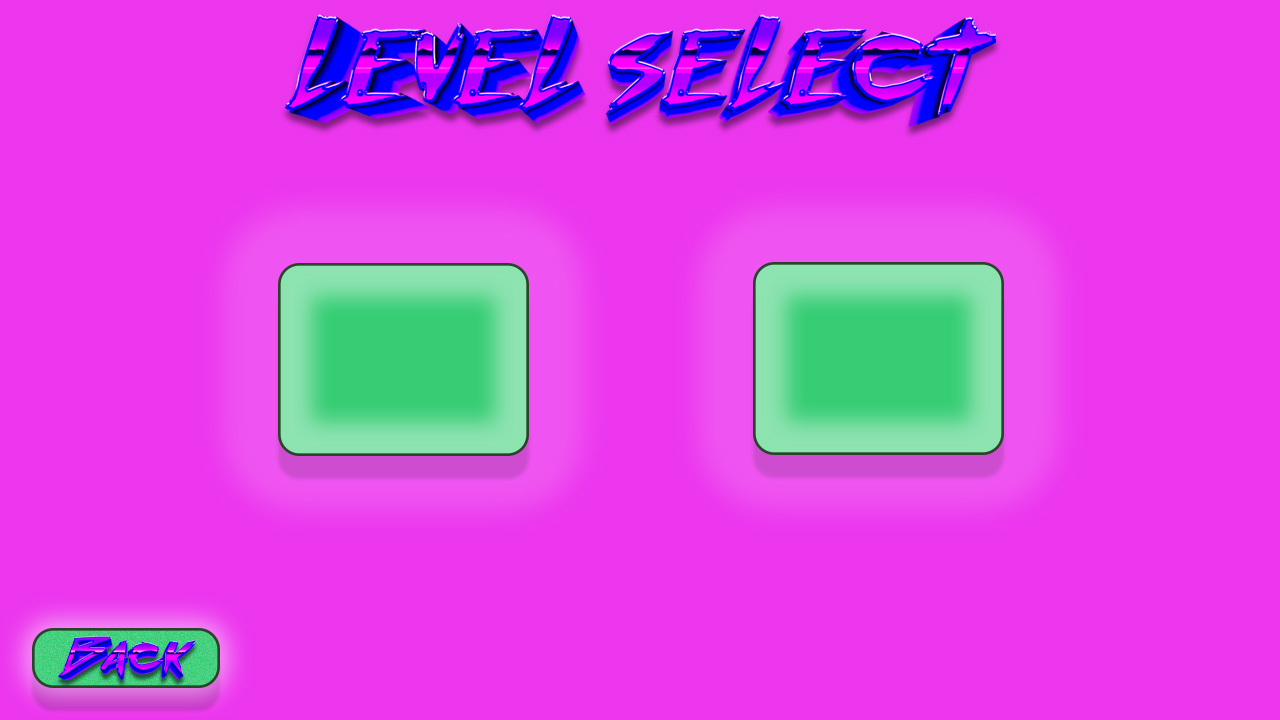
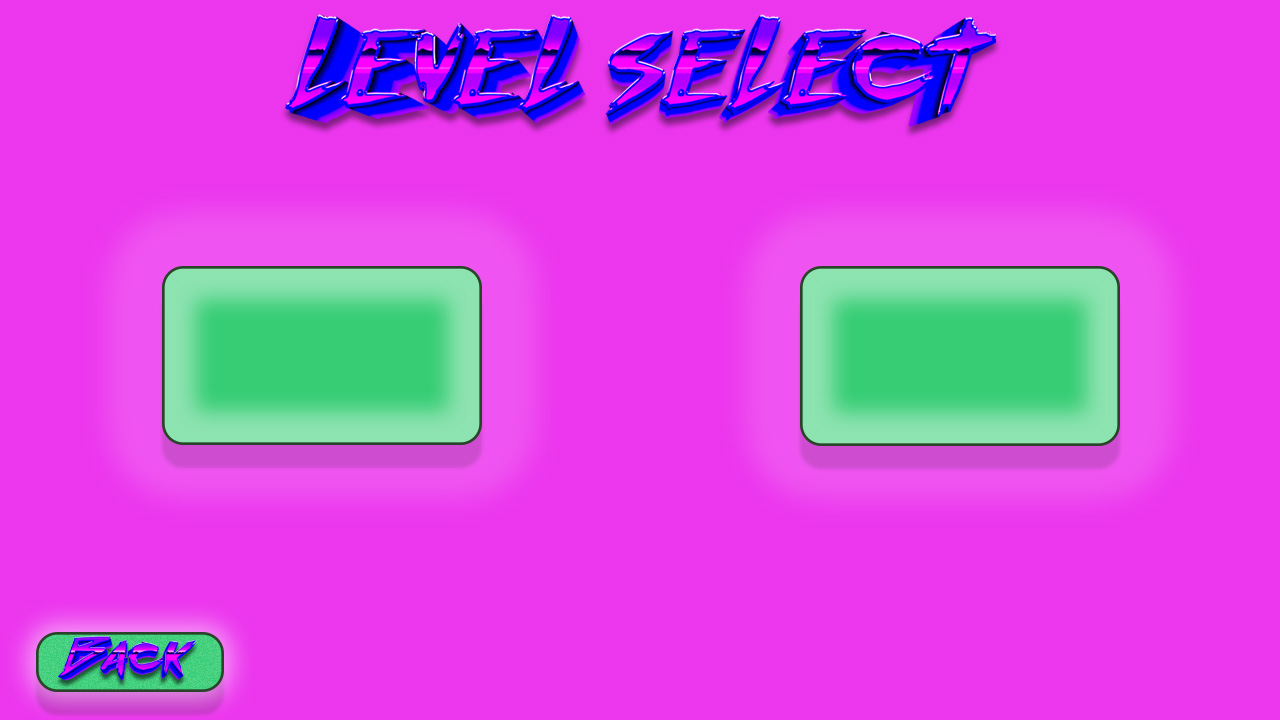
level select screen size is updated with new dimensions and implemented into rectangles

diff --git a/Geometry_Bash/Geometry_Bash/Game1.cs b/Geometry_Bash/Geometry_Bash/Game1.cs
@@ -741,8 +741,8 @@ namespace Geometry_Bash
                 spriteBatch.Draw(levelSelect, new Rectangle(new Point(0, 0), new Point(windowWidth, windowHeight)), Color.White);
 
                 // buttons for each level
-                level1hover = new Rectangle(new Point(278, 262), new Point(251, 193));
-                level2hover = new Rectangle(new Point(753, 262), new Point(251, 193));
+                level1hover = new Rectangle(new Point(162, 266), new Point(320, 180));
+                level2hover = new Rectangle(new Point(800, 266), new Point(320, 180));
                 if (mouseLocation.Intersects(level1hover))
                 { spriteBatch.Draw(levelTile, level1hover, Color.White); }
                 if (mouseLocation.Intersects(level2hover))
@@ -759,7 +759,7 @@ namespace Geometry_Bash
                     {
                         if (level1[i, j] == 'x')
                         {
-                            spriteBatch.Draw(wall, new Rectangle(new Point(280 + 7 * i, 265 + 10 * j), new Point(7, 10)), Color.Black);
+                            spriteBatch.Draw(wall, new Rectangle(new Point(162 + 10 * i, 266 + 10 * j), new Point(10, 10)), Color.Black);
                         }
                     }
                 }
@@ -770,7 +770,7 @@ namespace Geometry_Bash
                     {
                         if (level2[i, j] == 'x')
                         {
-                            spriteBatch.Draw(wall, new Rectangle(new Point(755 + 7 * i, 265 + 10 * j), new Point(7, 10)), Color.Black);
+                            spriteBatch.Draw(wall, new Rectangle(new Point(800 + 10 * i, 266 + 10 * j), new Point(10, 10)), Color.Black);
                         }
                     }
                 }
